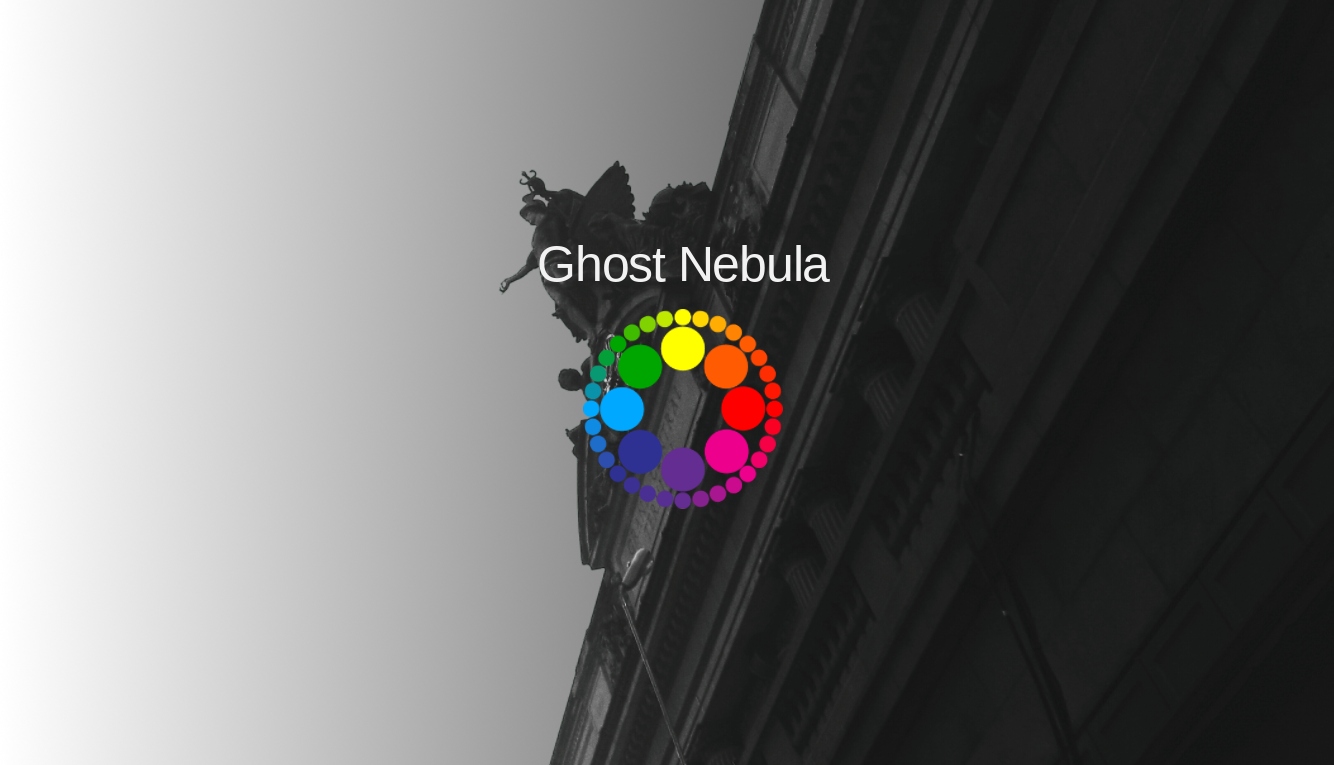
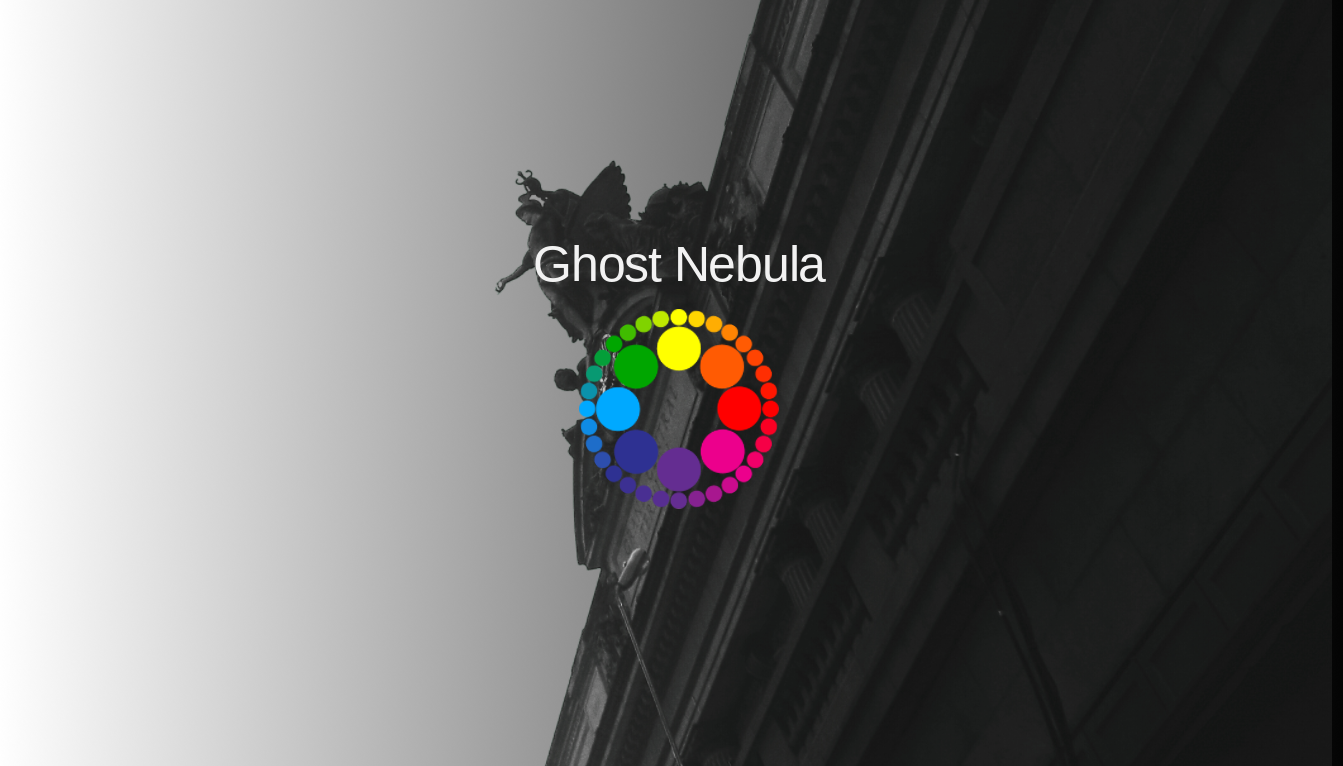
Added images, worked on header and footer

diff --git a/HTML/content.html b/HTML/content.html
@@ -82,11 +82,11 @@
    
   <div class="col-xs-6 col-md-3">
     <a href="#" class="thumbnail">
-      <img src="../images/img4.jpg" alt="...">
+      <img src="../images2/firsthack.png" alt="...">
     </a>
     <div class="project-btns">
-          <a class="col-xs-6 btn btn-default" href="https://coral-reyes.github.io/foursquare/" role="button">Preview</a>
-          <a class="col-xs-6 btn btn-default" href="https://github.com/Coral-Reyes/foursquare" role="button">Code</a>
+          <a class="col-xs-6 btn btn-default" href="https://preview.c9users.io/mgerrior1/flappy-rocketship/index.html?_c9_id=livepreview1&_c9_host=https://ide.c9.io" role="button">Preview</a>
+          <a class="col-xs-6 btn btn-default" href="#" role="button">Code: N/A</a>
         </div>
   </div>
   <div class="col-xs-6 col-md-3">
@@ -186,9 +186,9 @@
 				<div class="footer-icons">
 
 					<a href="#"><i class="fa fa-facebook"></i></a>
-					<a href="#"><i class="fa fa-twitter"></i></a>
-					<a href="#"><i class="fa fa-linkedin"></i></a>
-					<a href="#"><i class="fa fa-github"></i></a>
+					<a href="https://twitter.com/ghost__nebula"><i class="fa fa-twitter"></i></a>
+					<a href="https://www.linkedin.com/in/coral-reyes-b5516b128/"><i class="fa fa-linkedin"></i></a>
+					<a href="https://github.com/Coral-Reyes"><i class="fa fa-github"></i></a>
 
 				</div>
 

diff --git a/CSS/content.css b/CSS/content.css
@@ -5,8 +5,12 @@ body{
 	  color: #c0c5ce;
     
 }
+.jumbotron {
+    opacity: 50;
+}
 .text-1 {
     text-align: center;
+    color: #2c353a;
 }
 #icon {
     display: block;
@@ -41,7 +45,7 @@ header ul.nav li a{
   	-moz-transition: all 0.25s ease;
   &:hover{
     color: #fff;
-    	background-color: #222b2f;
+    	background-color: #292c2f;
   }
 }
 
